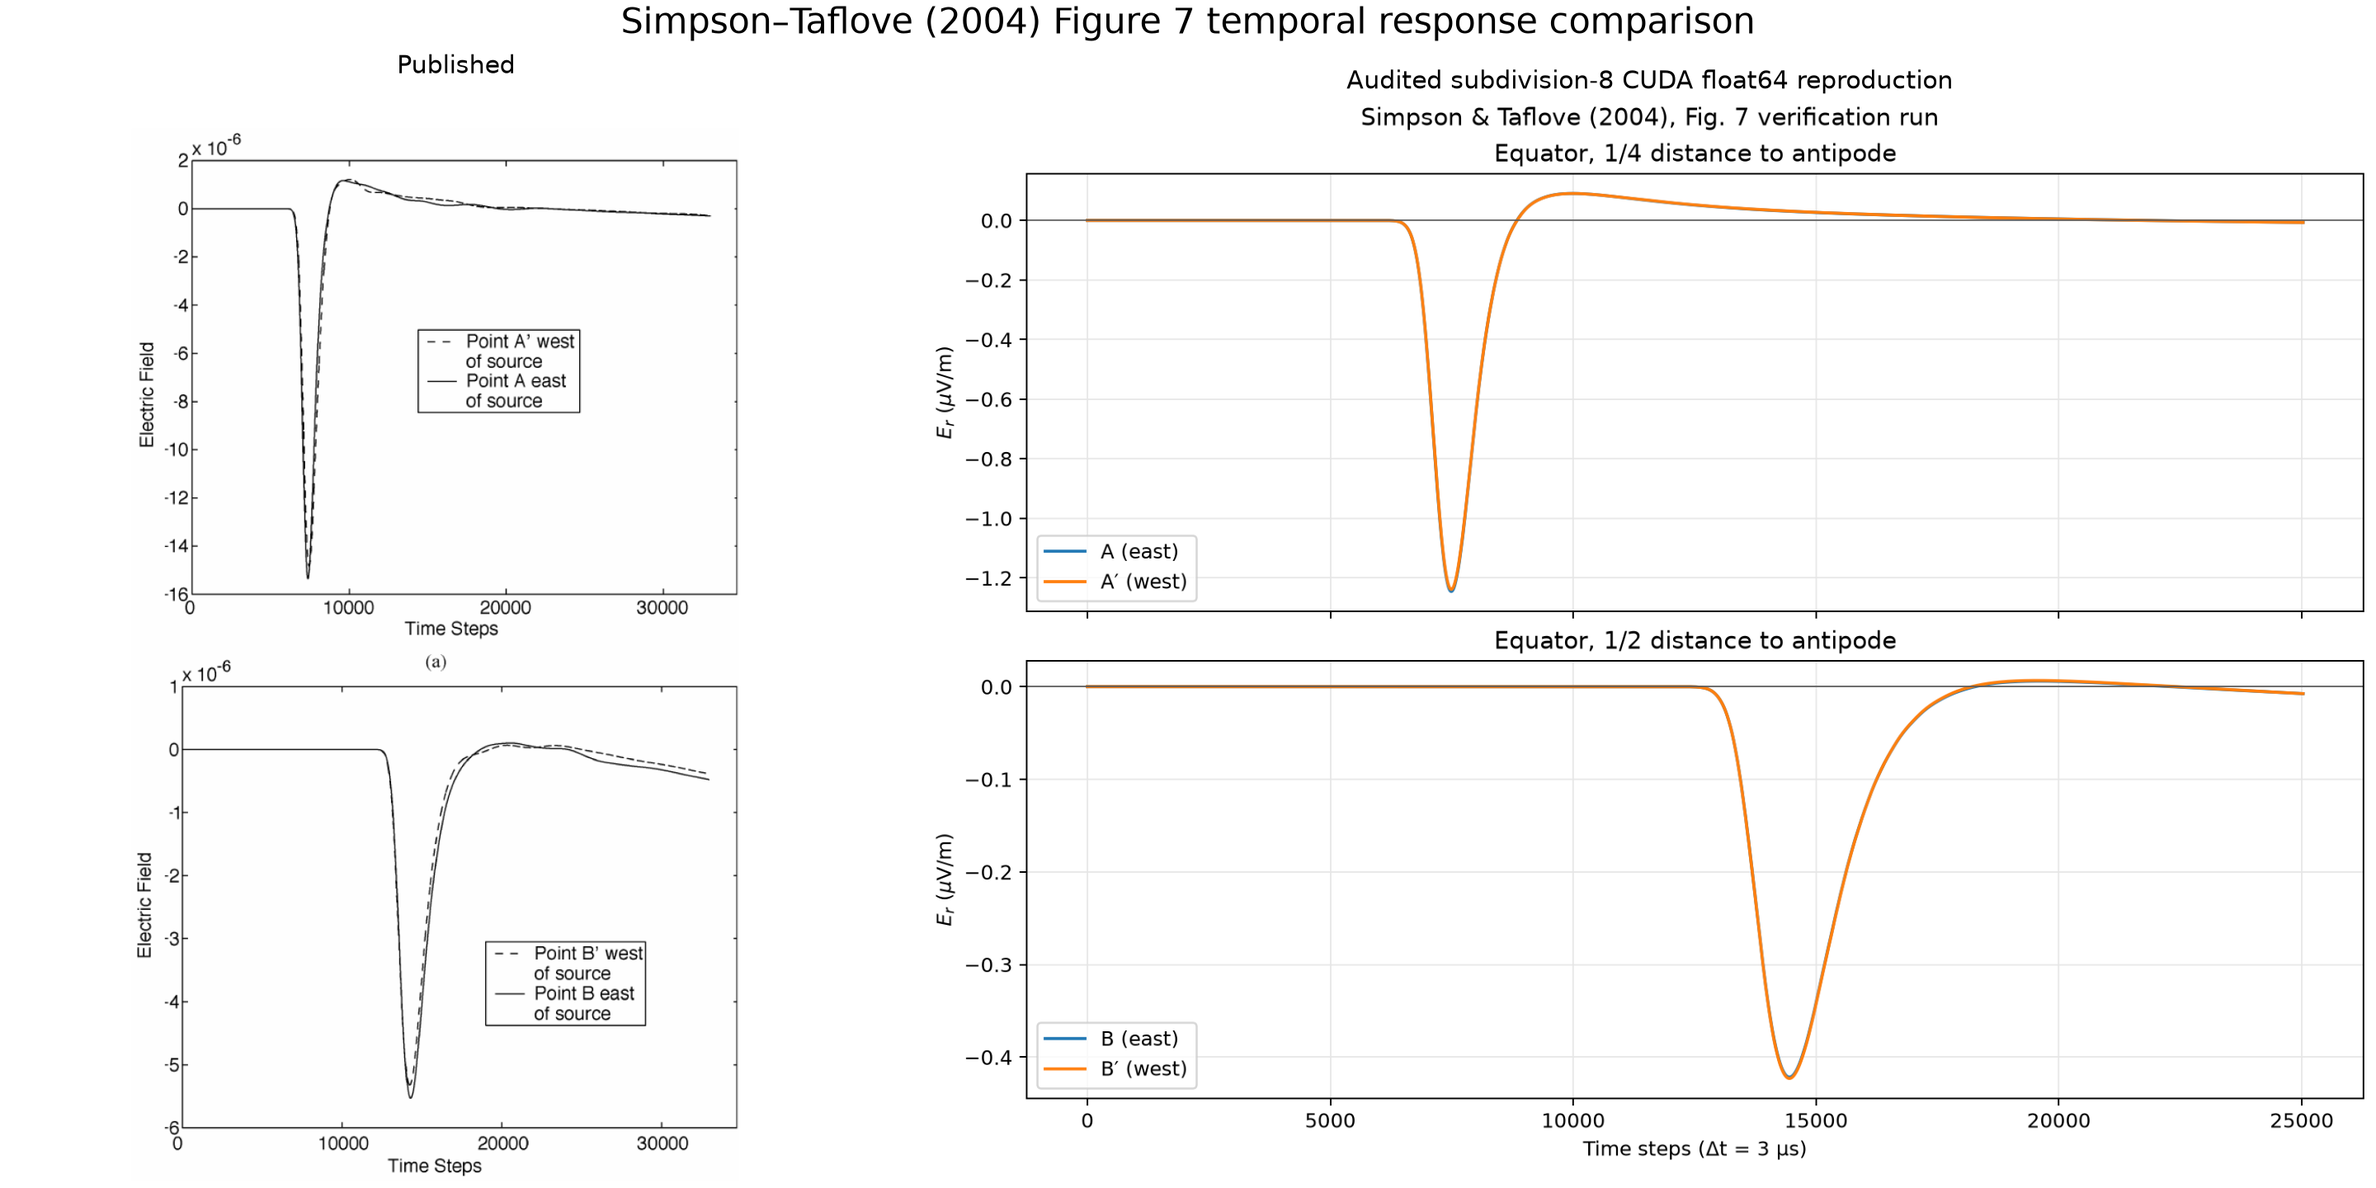
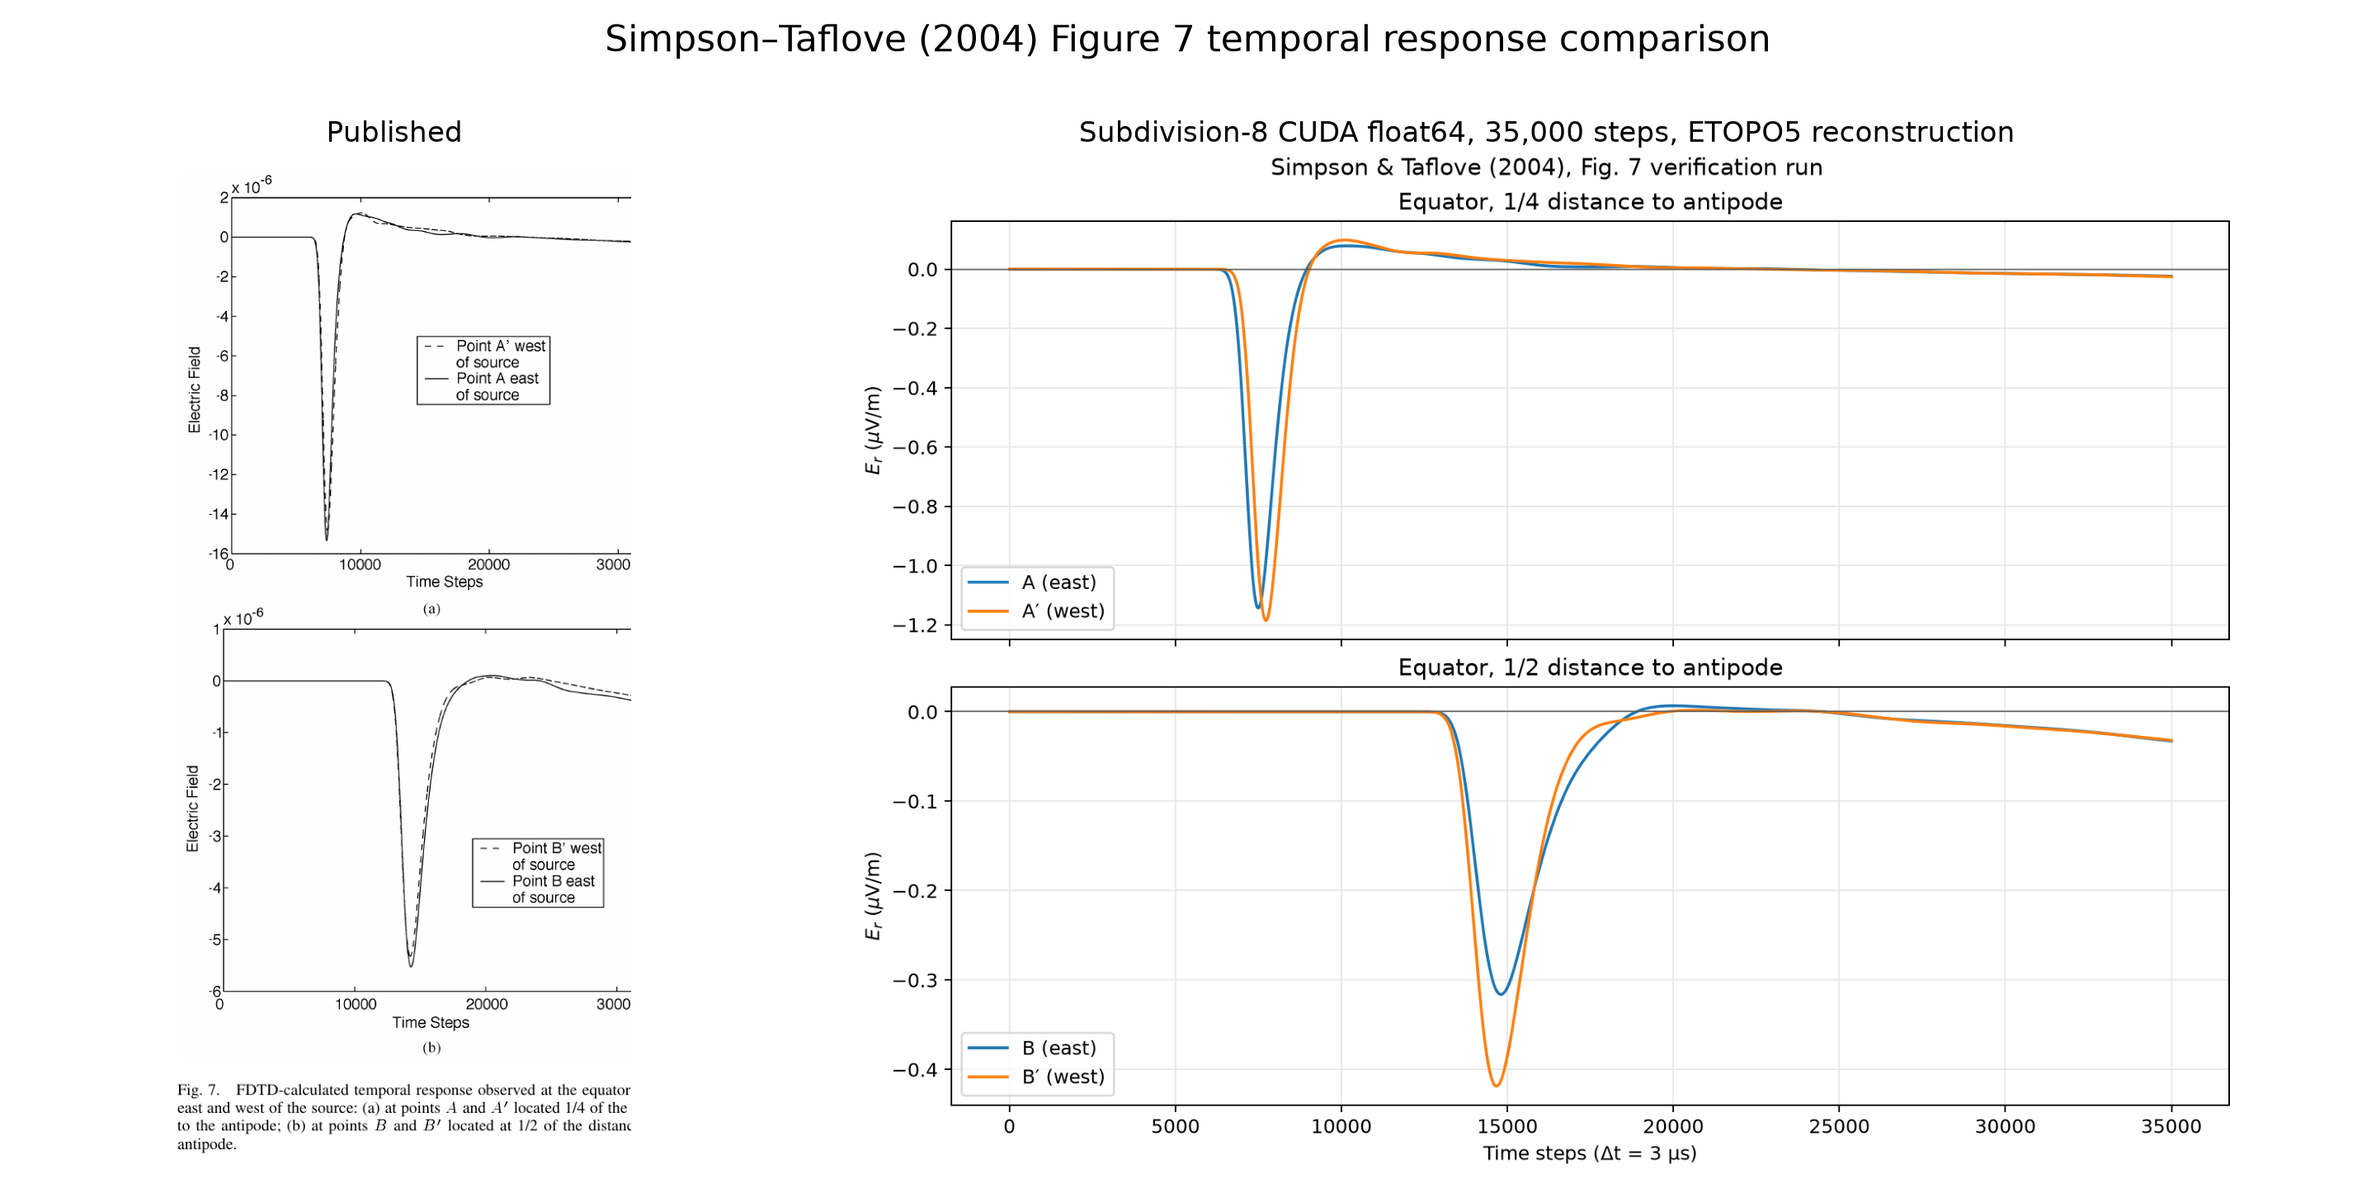
docs(verification): rerun 2004 Figure 7
Replace the shortened fixed-depth trace with a subdivision-8 CUDA float64 production run covering all 35,000 paper time steps. Use ETOPO5 as a documented period-appropriate reconstruction of the unspecified NOAA-NGDC relief source and update both paper comparisons.

Separate the qualitative Figure 7 passes from the failed relative-trace agreement, refresh Figure 8 metrics from the same trace, and record the production hashes and runtime. Regression evidence: 209 passed and 2 skipped.

diff --git a/docs/verification/simpson-taflove-2004.md b/docs/verification/simpson-taflove-2004.md
@@ -2,7 +2,7 @@
 
 > Final quantitative status: **FAIL**
 
-Production rerun completed on 2026-08-05 (Asia/Seoul).
+Production rerun completed on 2026-08-06 (Asia/Seoul).
 
 ## Executive summary
 
@@ -13,38 +13,51 @@ implementation reproduces the expected negative main pulse followed by an
 overshoot and slow tail. It does not, however, satisfy the paper's strict
 pointwise attenuation tolerances over the complete 50–500 Hz band.
 
-The authoritative comparison uses Bannister's source equations rather than a
-fit read from the published plot. In the 2026-08-05 subdivision-8 polar-grid
-rerun, the mean absolute attenuation errors are 0.310 dB/Mm on A–B and
-0.286 dB/Mm on A′–B′. Their maximum absolute errors are 2.384 dB/Mm at
-488.281 Hz and 1.092 dB/Mm at 478.109 Hz. The maxima exceed the paper's
-reported ±0.5 dB/Mm A–B and ±1.0 dB/Mm A′–B′ agreement ranges. The remaining
-failure is concentrated in the oscillatory 400–500 Hz residual.
+The authoritative comparison uses a complete 35,000-step receiver trace and
+the period-appropriate ETOPO5 reconstruction of the paper's unspecified
+NOAA-NGDC Global Relief CD-ROM input. ETOPO5 is not claimed to be the exact
+source selected by the authors. The rerun restores clearly visible east–west
+asymmetry and follows the published time extent. It reproduces the negative
+main pulse, positive overshoot, and persistent slow tail, but the relative
+east/west peak ordering and separation do not reproduce the published panel.
+
+For Figure 8, the same trace gives mean absolute attenuation errors of 1.104
+dB/Mm on A–B and 0.242 dB/Mm on A′–B′. Their maximum absolute errors are 2.538
+dB/Mm at 457.764 Hz and 3.258 dB/Mm at 488.281 Hz. The maxima exceed the
+paper's reported ±0.5 dB/Mm A–B and ±1.0 dB/Mm A′–B′ agreement ranges.
 
 | Verification target | Acceptance criterion | Current result | Status |
 |---|---|---|---:|
+| Figure 7 full time extent | Published plot extends to about 35,000 steps | Samples 0–35,000 | **PASS** |
 | Figure 7 waveform morphology | Main negative pulse, positive overshoot, and slow tail | All three features reproduced | **PASS** |
-| Figure 7 arrival ordering | A/A′ precede B/B′ | 7,490/7,491 versus 14,449/14,450 steps | **PASS** |
-| Figure 8 A–B attenuation | Pointwise residual within ±0.5 dB/Mm | Maximum 2.384 dB/Mm | **FAIL** |
-| Figure 8 A′–B′ attenuation | Pointwise residual within ±1.0 dB/Mm | Maximum 1.092 dB/Mm | **FAIL** |
-| Complete Figures 7–8 reproduction | All applicable criteria pass | Qualitative pass; pointwise attenuation fail | **FAIL** |
+| Figure 7 arrival ordering | A/A′ precede B/B′ | 7,491/7,721 versus 14,803/14,667 steps | **PASS** |
+| Figure 7 east–west nonidentity | Both receiver pairs visibly differ | Relative RMS is 37.90%/30.46% | **PASS** |
+| Figure 7 relative pair amplitudes | East/west peak ordering and visual separation match | Both peak orderings reverse; B′ is 32.4% larger than B | **FAIL** |
+| Figure 7 exact plot reproduction | Time extent, morphology, and relative traces agree | Morphology agrees; relative traces do not | **FAIL** |
+| Figure 8 A–B attenuation | Pointwise residual within ±0.5 dB/Mm | Maximum 2.538 dB/Mm | **FAIL** |
+| Figure 8 A′–B′ attenuation | Pointwise residual within ±1.0 dB/Mm | Maximum 3.258 dB/Mm | **FAIL** |
+| Complete Figures 7–8 reproduction | All applicable criteria pass | Morphological pass; quantitative fail | **FAIL** |
 
-### Change from the previous production result
+### Change from the previous fixed-depth production result
 
-| Metric | Previous | Audited rerun | Change |
+| Metric | Fixed-depth, 25,023 steps | ETOPO5, 35,000 steps | Change |
 |---|---:|---:|---:|
-| A–B attenuation MAE | 0.274 dB/Mm | 0.310 dB/Mm | 13.1% worse |
-| A–B maximum error | 1.218 dB/Mm | 2.384 dB/Mm | 95.7% worse |
-| A′–B′ attenuation MAE | 0.275 dB/Mm | 0.286 dB/Mm | 4.0% worse |
-| A′–B′ maximum error | 1.225 dB/Mm | 1.092 dB/Mm | **10.9% better** |
-| Production wall time | 3,477.9 s | 2,002.5 s | **42.4% faster** |
+| A/A′ relative RMS | 0.545% | 37.895% | required asymmetry restored, but excessive |
+| B/B′ relative RMS | 0.463% | 30.458% | required asymmetry restored, but excessive |
+| A / A′ peak step | 7,490 / 7,491 | 7,491 / 7,721 | 230-step split replaces near overlap |
+| B / B′ peak step | 14,449 / 14,450 | 14,803 / 14,667 | 136-step split replaces near overlap |
+| A–B attenuation MAE / maximum | 0.310 / 2.384 dB/Mm | 1.104 / 2.538 dB/Mm | worse |
+| A′–B′ attenuation MAE / maximum | 0.286 / 1.092 dB/Mm | 0.242 / 3.258 dB/Mm | mean better; maximum worse |
+| Production wall time | 2,002.5 s | 2,696.7 s | 40% more steps in 34.7% more time |
 
-The west-path maximum and runtime improve, but no acceptance verdict changes.
-The A–B high-frequency residual is worse, so the audited result is not an
-overall accuracy improvement over the previous production trace.
+The complete time axis and visible material-driven asymmetry are substantive
+Figure 7 improvements. They also reveal that the reconstructed relief and
+representative conductivity profile over-separate the receiver pairs and
+reverse the published peak ordering. Figure 8 retains the same overall fail:
+the west mean improves, but both pointwise maxima remain outside tolerance.
 
 The investigation ruled out floating-point precision, FFT zero-padding, DFT
-cutoff selection, source-plane rounding, and missing relief as primary causes.
+cutoff selection, and source-plane rounding as primary causes.
 Uniform-model and azimuthal studies show that spatial dispersion is real and
 convergent. At the paper-scale subdivision-7 geodesic grid, directional
 anisotropy is already small—no more than 0.295% over the evaluated band—so the
@@ -105,7 +118,7 @@ Phase velocity is compared with Bannister equation (4).
 | Radial domain | −100 to +100 km relative to sea level |
 | Radial cells | 40 at 5 km spacing |
 | Time step | 3.0 μs |
-| Production steps | 25,023 |
+| Production steps / samples | 35,000 / 35,001 |
 | Source position | equator, 47° W |
 | Source extent | 5 km vertical current element |
 | Source centroid | 2.5 km, linearly staggered between 0 and 5 km `Er` planes |
@@ -116,13 +129,14 @@ Phase velocity is compared with Bannister equation (4).
 | Ionosphere reference height | 70 km |
 | Ionosphere scale height | 3.33 km |
 | Surface grid | subdivision 8, polar orientation, 655,362 cells |
-| Material | fixed-depth Natural Earth land/ocean model |
+| Material | ETOPO5 relief reconstruction + Figure 6 oceanic/continental profiles |
 | DFT window | adaptive post-overshoot zero crossing |
 | Production backend | PyTorch compiled update on CUDA |
 | Production precision | float64 |
-| Production implementation revision | `e916119` |
[1 lines of base64/hex data omitted]
-| Wall time | 2,002.5 s |
[1 lines of base64/hex data omitted]
+| Production implementation revision | `eee3f98` |
[1 lines of base64/hex data omitted]
+| Wall time | 2,696.7 s |
 
 Surface cell counts are 40,962, 163,842, and 655,362 for subdivisions 6, 7,
 and 8. Subdivision 7 matches the paper's 163,842 cells per radial plane.
@@ -134,7 +148,7 @@ The left-hand panels below are cropped from page 450 of the
 The published panels are © 2004 IEEE and are excerpted here for
 source-attributed technical comparison.
 The right-hand panels were regenerated with the current analysis code from the
-2026-08-05 subdivision-8 CUDA `float64` receiver trace. The Figure 8 reproduction
+2026-08-06 subdivision-8 CUDA `float64` ETOPO5 receiver trace. The Figure 8 reproduction
 uses Bannister's source equations and the final fixed comparison frequencies,
 not the deprecated plot-fit reference.
 
@@ -142,23 +156,27 @@ not the deprecated plot-fit reference.
 
 The reproduced Figure 7 waveforms have the same primary sequence as the
 published plots: a quiet pre-arrival interval, a sharp negative main pulse, a
-positive overshoot, and a decaying slow tail. The level-8 negative peaks occur
-at steps 7,490/7,491 for A/A′ and 14,449/14,450 for B/B′, consistent with the locations
-visible in the published panels. Absolute amplitudes are not an acceptance
-criterion because the paper does not state its source-current amplitude; the
-reproduction uses a 1 A normalization. The near-overlap of east and west
-curves in the reproduction, compared with the visible separation in the paper,
-also reflects the unavailable detailed lithosphere model discussed below.
+positive overshoot, and a decaying slow tail across the complete 35,000-step
+axis. The level-8 negative peaks occur at steps 7,491/7,721 for A/A′ and
+14,803/14,667 for B/B′. The values at step 35,000 remain negative at
+−0.02408/−0.02560 μV/m and −0.03277/−0.03189 μV/m, respectively, with tail
+magnitudes comparable to the published panels after relative scaling.
+Absolute amplitudes are not an acceptance criterion because the paper does not
+state its source-current amplitude; the reproduction uses a 1 A normalization.
+
+ETOPO5 restores the missing east–west separation, but not its quantitative
+pattern. The reproduced west peaks are 3.7% and 32.4% larger in magnitude than
+the east peaks at the quarter and half paths, whereas the published solid east
+curves are visually slightly deeper than the dashed west curves. The Figure 7
+status is therefore a qualitative morphology pass and an exact-plot fail.
 
 ![Published and reproduced Figure 8 attenuation curves](images/simpson-taflove-2004-fig-8-comparison.png)
 
-The reproduced Figure 8 points follow the same overall attenuation trend and
-are close to the Bannister daytime curve through most of the valid 50–500 Hz
-window. The visual divergence and oscillation near the upper end of that
-window correspond to the final subdivision-8 maximum residuals of 2.384 and
-1.092 dB/Mm. Thus the side-by-side plot supports the same mixed
-conclusion as the scalar metrics: qualitative and mean agreement are good, but
-the strict pointwise criterion fails at high frequency.
+The reproduced Figure 8 points follow the same overall attenuation trend, but
+the ETOPO5 east path is systematically more attenuating than the Bannister
+daytime curve. The upper-band oscillation gives final subdivision-8 maximum
+residuals of 2.538 and 3.258 dB/Mm. Thus the side-by-side plot supports the
+same conclusion as the scalar metrics: both strict pointwise criteria fail.
 
 ## Investigation history
 
@@ -198,19 +216,19 @@ below uses Bannister's source equations and the same 45 fixed frequencies.
 | 6 | 40,962 | 0.681 / 2.282 dB/Mm | 396.729 Hz | 0.696 / 2.420 dB/Mm | 447.591 Hz |
 | 7 | 163,842 | 0.387 / 2.708 dB/Mm | 488.281 Hz | 0.399 / 2.753 dB/Mm | 488.281 Hz |
 | 8, previous | 655,362 | 0.274 / 1.218 dB/Mm | 478.109 Hz | 0.275 / 1.225 dB/Mm | 478.109 Hz |
-| 8, audited polar rerun | 655,362 | 0.310 / 2.384 dB/Mm | 488.281 Hz | 0.286 / 1.092 dB/Mm | 478.109 Hz |
+| 8, fixed-depth polar control | 655,362 | 0.310 / 2.384 dB/Mm | 488.281 Hz | 0.286 / 1.092 dB/Mm | 478.109 Hz |
+| 8, ETOPO5 production | 655,362 | 1.104 / 2.538 dB/Mm | 457.764 Hz | 0.242 / 3.258 dB/Mm | 488.281 Hz |
 
-The current subdivision-8 mean errors remain below the historical level-7
-values, but the A–B pointwise maximum is not monotone under refinement. Relative
-to the previous level-8 report, the A′–B′ maximum improves by about 10.9%, from
-1.225 to 1.092 dB/Mm, while the A–B maximum worsens by about 95.7%, from 1.218
-to 2.384 dB/Mm. Neither path changes verdict.
+The current ETOPO5 west-path mean is lower than both earlier level-8 results,
+but its pointwise maximum is larger. The east path is systematically displaced
+and has the largest mean of the level-8 cases. Material fidelity therefore
+improves the time-domain asymmetry without improving Figure 8 as a whole.
+Neither path changes verdict.
 
-The audited level-8 run completed 25,023 steps in 2,002.5 seconds on an NVIDIA
-GeForce RTX 3060, 42.4% faster than the previous 3,477.9-second run. The lower
-peak memory of the ordered dual-circulation kernel also avoided the previous
-10.1 GB compiled-preflight allocation. Its adaptive cutoffs were 21,862,
-21,774, 22,308, and 22,425 samples for A, A′, B, and B′.
+The audited level-8 ETOPO5 run completed 35,000 steps in 2,696.7 seconds on an
+NVIDIA GeForce RTX 3060. The lower peak memory of the ordered dual-circulation
+kernel avoided the former 10.1 GB compiled-preflight allocation. Its adaptive
+cutoffs were 23,462, 22,676, 24,491, and 24,550 samples for A, A′, B, and B′.
 
 ## Uniform-model phase and arrival convergence
 
@@ -234,6 +252,12 @@ The mean phase-error order is not yet asymptotic: it drops from about one for
 level 6→7 to about 0.4 for level 7→8.
 
 ## NOAA ETOPO5 and crustal-profile check
+
+The paper identifies its relief source only as the NOAA-NGDC “Global Relief
+CD-ROM” in Reference 22. It does not name ETOPO5, a source filename, the
+edition, or the preprocessing convention. ETOPO5 is a 1993 NOAA-NGDC global
+relief product of the appropriate period and is used here as a reproducible
+reconstruction, not as a confirmed identical source.
 
 The archived big-endian NOAA-NGDC `ETOPO5.DAT` input contains a
 2,160×4,320 cell-centered, five-arc-minute elevation and bathymetry grid. The
@@ -343,33 +367,33 @@ anisotropy alone cannot explain the full high-frequency mismatch.
 
 ## Reproduction commands
 
-Run the corrected paper-scale natural-Earth case with CUDA `float64`:
+Run the authoritative complete-time ETOPO5 reconstruction with CUDA `float64`:
 
 ```bash
 uv run --extra pytorch --extra visualization ionosphere-verify-2004 \
-  --subdivision 8 --mesh-orientation polar --steps 25023 \
+  --subdivision 8 --mesh-orientation polar --steps 35000 \
+  --material etopo5 --etopo5-path data/ETOPO5.DAT \
+  --backend torch --device cuda:0 --dtype float64 --torch-compile \
+  --dft-window adaptive \
+  --ionosphere-reference-height-km 70 \
+  --ionosphere-scale-height-km 3.3333333333333335 \
+  --synchronize-every 1024 \
+  --output-dir /tmp/ionosphere-verification-20260806/st2004-fig7-l8-etopo5-35000
+```
+
+Run the fixed-depth Natural Earth control by changing only the material and
+output directory:
+
+```bash
+uv run --extra pytorch --extra visualization ionosphere-verify-2004 \
+  --subdivision 8 --mesh-orientation polar --steps 35000 \
   --material natural-earth \
   --backend torch --device cuda:0 --dtype float64 --torch-compile \
   --dft-window adaptive \
   --ionosphere-reference-height-km 70 \
   --ionosphere-scale-height-km 3.3333333333333335 \
   --synchronize-every 1024 \
-  --output-dir /tmp/ionosphere-verification-20260805/st2004-l8
-```
-
-Run the ETOPO5 material case after placing the verified source file at
-`data/ETOPO5.DAT`:
-
-```bash
-uv run --extra pytorch --extra visualization ionosphere-verify-2004 \
-  --subdivision 7 --steps 25023 \
-  --material etopo5 --etopo5-path data/ETOPO5.DAT \
-  --backend torch --device cuda:0 --dtype float64 --torch-compile \
-  --dft-window adaptive \
-  --ionosphere-reference-height-km 70 \
-  --ionosphere-scale-height-km 3.33 \
-  --synchronize-every 1024 \
-  --output-dir artifacts/simpson-taflove-2004/etopo5-level-7-reproduction
+  --output-dir /tmp/ionosphere-verification-20260806/st2004-l8-fixed-depth-control
 ```
 
 Regenerate the directional-dispersion sweep without changing the geodesic
@@ -408,15 +432,18 @@ The implementation passes structural and qualitative checks:
 - directional grid error is quantified and converges at approximately second
   order.
 
-It fails the final quantitative reproduction criterion because subdivision 8
-still has 2.384 and 1.092 dB/Mm maximum attenuation errors, exceeding the
-required 0.5 and 1.0 dB/Mm limits. The residual is dominated by 400–500 Hz.
+It fails exact Figure 7 reproduction because the reconstructed east/west peak
+ordering is reversed and the half-path separation is excessive. It also fails
+Figure 8 because subdivision 8 has 2.538 and 3.258 dB/Mm maximum attenuation
+errors, exceeding the required 0.5 and 1.0 dB/Mm limits. The residual is
+dominated by 400–500 Hz.
 Likely contributors are isotropic high-frequency spatial dispersion, the
 finite 5 km radial discretization, unavailable local crustal structures from
 the conceptual Hermance section, and the unavoidable difference between the
 paper's adaptive merged latitude–longitude grid and this implementation's
 geodesic dual grid.
 
-This result must therefore be described as a convergent, qualitatively correct
-verification with a failed strict pointwise reproduction—not as a successful
+This result must therefore be described as a complete-time, morphologically
+correct Figure 7 reconstruction with failed relative-trace agreement, together
+with a failed strict pointwise Figure 8 reproduction—not as a successful exact
 reproduction of Figures 7 and 8.
